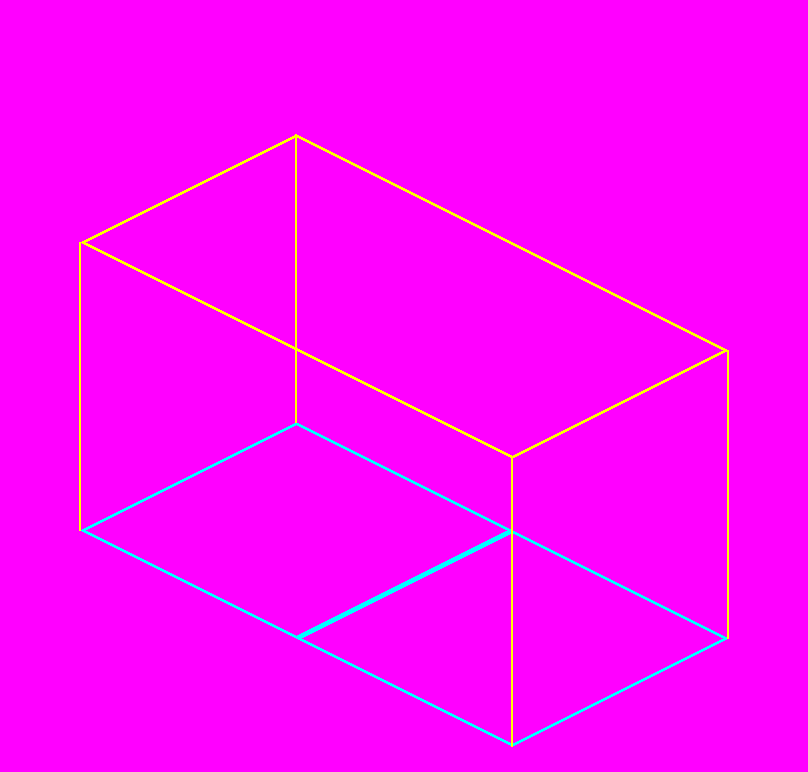
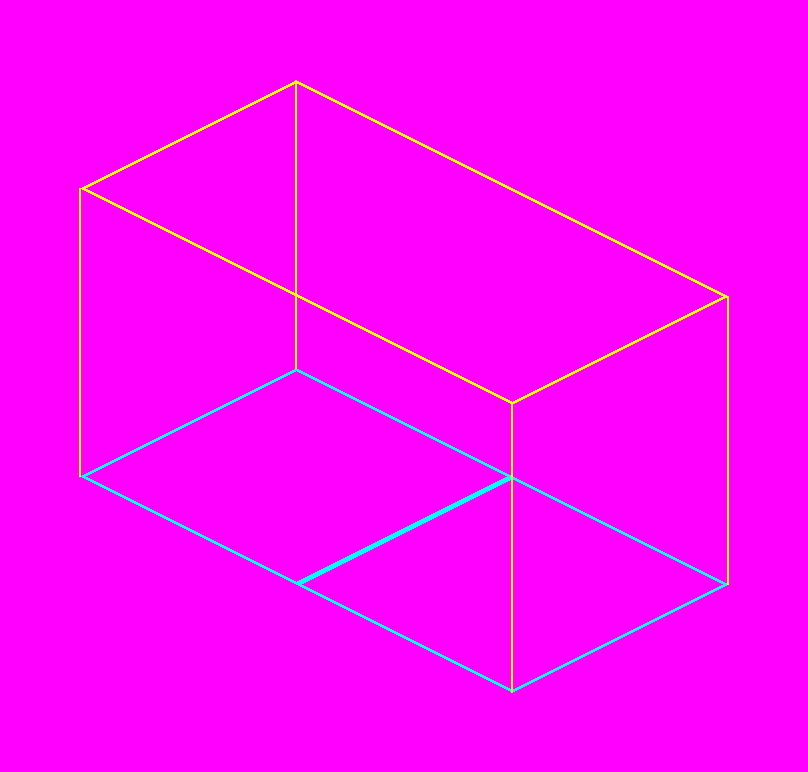
Gem: gabarito de 3 celulas (mesa comprida) e geometria dos gabaritos para N celulas

diff --git a/tools/arte/make_gem_kit.py b/tools/arte/make_gem_kit.py
@@ -5,6 +5,7 @@ Gera:
   gabarito_parede.png      trecho de parede de 2 celulas, altura do muro (77) em 4x, nos dois sentidos
   gabarito_movel_1.png     volume maximo de um movel de 1 celula (altura 72) em 4x
   gabarito_movel_2.png     volume maximo de um movel de 2 celulas (cama, balcao grande) em 4x
+  gabarito_movel_3.png     3 celulas em fila (mesa comprida, que o importador corta em ponta/meio/ponta)
   referencia_pecas.png     pecas atuais do atlas (paredes, portas, pisos, escada) para o estilo
   referencia_personagem.png  boneco parado/andando nas 4 direcoes
   paleta.png / paleta.txt  32 cores tiradas das pecas atuais
@@ -65,18 +66,18 @@ def gabarito_parede():
 
 
 def box_template(cells):
-    w = (CELL_W * (1 + (cells - 1) / 2) + 40) * S
-    h = (CELL_H * (1 + (cells - 1) / 2) + FURN_H + 40) * S
-    im, d = canvas(int(w), int(h))
-    cx, cy = 20 * S + CELL_W / 2 * S, h - 20 * S - CELL_H / 2 * S * (1 + (cells - 1) / 2) + (cells - 1) * CELL_H / 4 * S
-    cells_pts = []
-    for n in range(cells):
-        c = (cx + n * CELL_W / 2 * S, cy - (cells - 1) * CELL_H / 4 * S + n * CELL_H / 2 * S)
-        cells_pts.append(diamond(*c))
+    """volume maximo de um movel de N celulas em fila no eixo i (desce para a direita)"""
+    m = 20                                                   # margem (px do jogo)
+    # pegada: celula k tem centro c0 + k*(54, 27); limites em px do jogo, relativos a c0
+    x0, x1 = -CELL_W / 2, CELL_W / 2 * (cells - 1) + CELL_W / 2
+    y0, y1 = -CELL_H / 2 - FURN_H, CELL_H / 2 * (cells - 1) + CELL_H / 2
+    im, d = canvas(int((x1 - x0 + 2 * m) * S), int((y1 - y0 + 2 * m) * S))
+    c0 = ((m - x0) * S, (m - y0) * S)
+    cells_pts = [diamond(c0[0] + k * CELL_W / 2 * S, c0[1] + k * CELL_H / 2 * S) for k in range(cells)]
     for poly in cells_pts:
         d.polygon(poly, outline=GUIDE, width=3)
-    # contorno da base e arestas verticais ate a altura maxima
-    left = cells_pts[0][0]; back = cells_pts[0][1]; right = cells_pts[-1][2]; front = cells_pts[-1][3]
+    left, back = cells_pts[0][0], cells_pts[0][1]
+    right, front = cells_pts[-1][2], cells_pts[-1][3]
     for p in (left, right, front, back):
         d.line([p, (p[0], p[1] - FURN_H * S)], fill=GUIDE2, width=2)
     top = [(p[0], p[1] - FURN_H * S) for p in (left, back, right, front)]
@@ -148,6 +149,7 @@ if __name__ == '__main__':
     gabarito_parede()
     box_template(1)
     box_template(2)
+    box_template(3)
     pecas = referencia_pecas()
     boneco = referencia_personagem()
     paleta(pecas + boneco)
